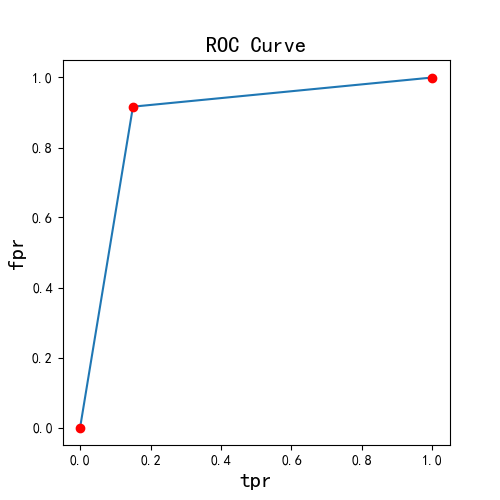
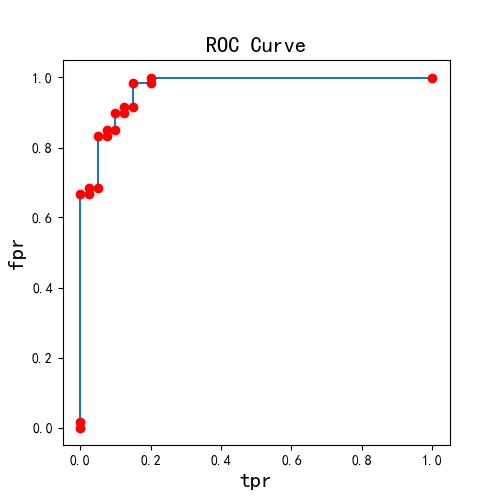
Add files via upload

Changed region(s): [[0.15, 0.15, 0.84, 0.87]]

diff --git a/第三次作业/17-2200170258-何嘉浩/逻辑回归模型.py b/第三次作业/17-2200170258-何嘉浩/逻辑回归模型.py
@@ -83,7 +83,7 @@ def test(X,Y,W,iters):
 
 #全局变量
 alpha =0.1
-iters = 10000
+iters = 1000
 loss_his_test=[]
 loss_his_train=[]
 W_aver=[]
@@ -132,11 +132,9 @@ def predict(X, W):
 
 #求预测值
 Y_pre,Y_hat=predict(X_normalized,W_aver1)
-Y_hat=Y_hat+0
-Y_hat=Y_hat.T
-Y_true=Y.T
+
 from itertools import chain
-Y_true = list(chain.from_iterable(Y_true))
+Y_true = list(chain.from_iterable(Y))
 Y_hat = list(chain.from_iterable(Y_hat))
 
 #求presicion和recall、F1值
@@ -147,9 +145,8 @@ print("recall值为{}".format(recall))
 F1=f1_score(Y_true,Y_hat)
 print("f1_score值为{}".format(F1))
 
-
 #画ROC曲线和求AUC
-fpr,tpr,thre=roc_curve(Y_true,Y_hat,)
+fpr,tpr,thre=roc_curve(Y,Y_pre)
 AUC=auc(fpr,tpr)
 plt.figure(figsize=(5, 5))  
 plt.title('ROC Curve',fontsize=16)  
